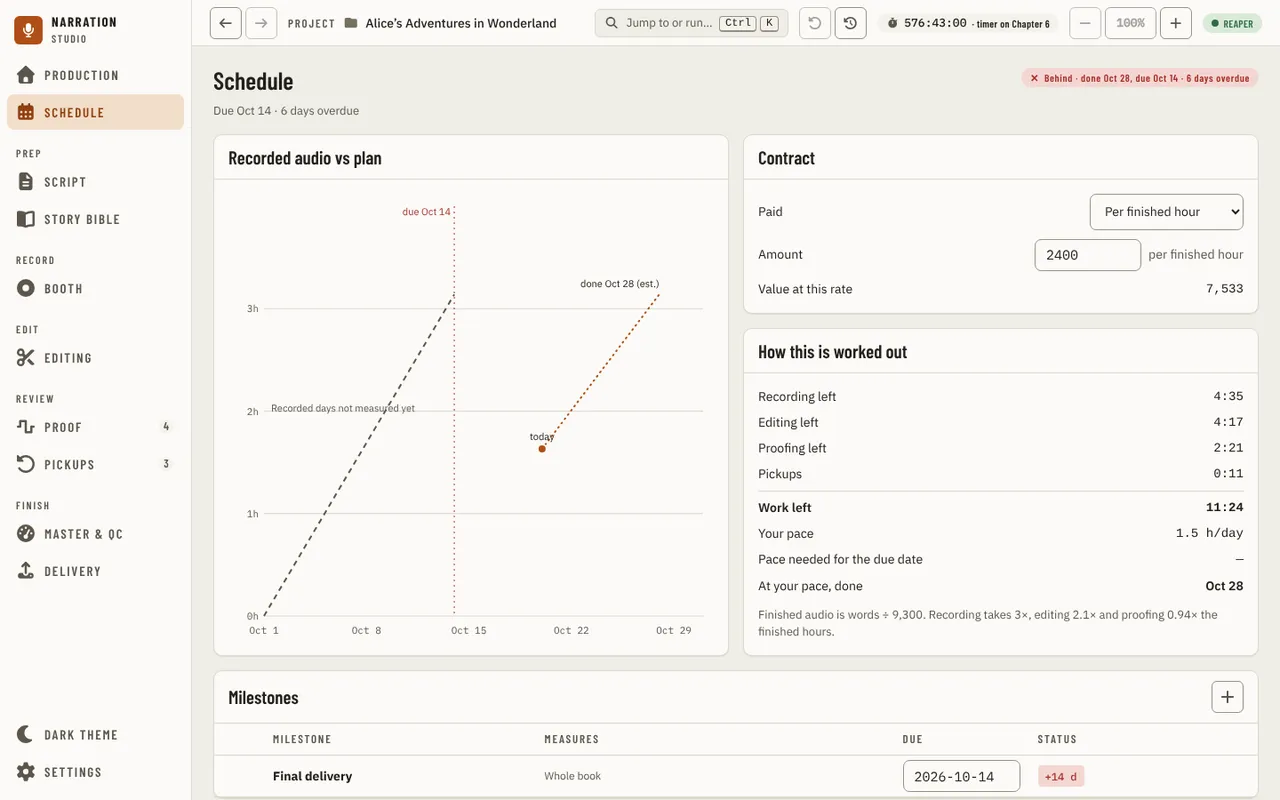
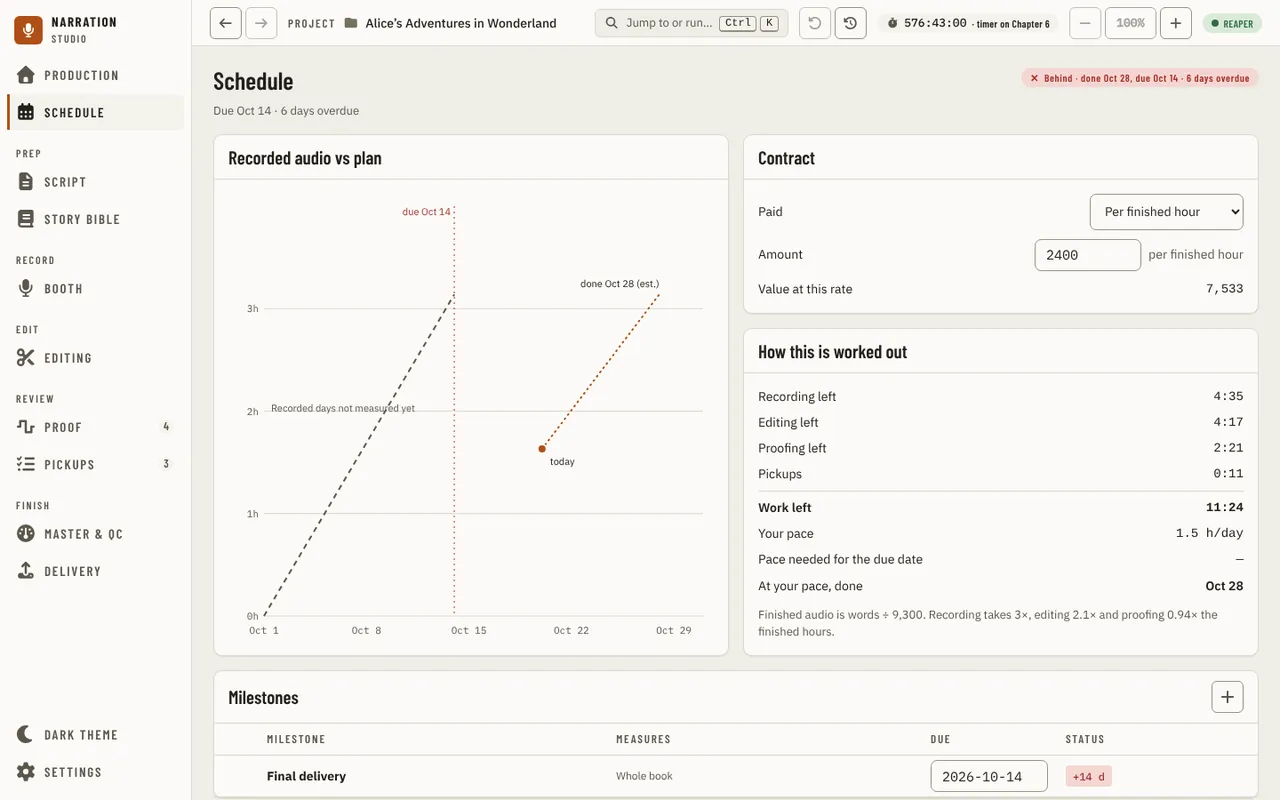
fix(ui): widen Schedule's Milestone column, add a no-due-date status, clear the today label (#1896)

diff --git a/apps/ui/src/components/schedule/MilestoneTable.tsx b/apps/ui/src/components/schedule/MilestoneTable.tsx
@@ -13,15 +13,18 @@ import { milestoneStatus, type MilestoneStatus, type ScheduleChapter } from './p
 const STATUS_TONE: Record<MilestoneStatus['kind'], StatusTone> = { done: 'success', ok: 'success', risk: 'warning', late: 'danger', none: 'neutral' };
 
 /** A status as a small cell: the value is short ("+3 d", a date, a check, a dash) and the sentence is its name and its tooltip. */
-function StatusCell({ status }: { status: MilestoneStatus }) {
+function StatusCell({ status, finalRow = false }: { status: MilestoneStatus; finalRow?: boolean }) {
   return (
     <TooltipTarget text={status.sentence}>
-      <span role="img" aria-label={status.sentence} data-status={status.kind}>
+      <span role="img" aria-label={status.sentence} data-status={status.kind} data-final-status={finalRow ? '' : undefined}>
         <StatusBadge shape="cell" tone={STATUS_TONE[status.kind]} label={status.short} />
       </span>
     </TooltipTarget>
   );
 }
+
+/** The Final delivery status while the book has no due date: a pace cannot be judged, and the cell says so instead of staying blank. */
+const NO_DUE: MilestoneStatus = { kind: 'none', sentence: 'No due date yet. Set one to see if you are on pace.', short: 'No date' };
 
 export type MilestoneTableProps = {
   milestones: readonly ProductionMilestone[];
@@ -47,68 +50,77 @@ export function MilestoneTable({ milestones, chapters, today, due, onToggleDone,
     .sort((a, b) => (a.m.dueDate < b.m.dueDate ? -1 : a.m.dueDate > b.m.dueDate ? 1 : a.index - b.index));
   const final = due ? milestoneStatus({ dueDate: due, measure: 'all' }, chapters, today) : null;
   return (
-    <Table label="Milestones" flush>
-      <TableHead>
-        <TableRow>
-          <TableHeader hiddenLabel="Done" />
-          <TableHeader>Milestone</TableHeader>
-          {/* The mock's column sizes: Measures keeps room for "All recorded" on one line, and Due is a date wide (152 px) whatever a milestone is called. */}
-          <TableHeader className="md:min-w-[9rem]">Measures</TableHeader>
-          <TableHeader className="w-[9.5rem]">Due</TableHeader>
-          <TableHeader>Status</TableHeader>
-          <TableHeader hiddenLabel="Actions" />
-        </TableRow>
-      </TableHead>
-      <TableBody>
-        {rows.map(({ m, index }) => (
-          <TableRow key={index}>
-            <TableCell>
-              <IconButton label={`Mark ${m.name} complete`} aria-pressed={Boolean(m.done)} data-done={index} onClick={() => onToggleDone(index)}>
-                <Icon name={m.done ? 'markedDone' : 'markDone'} />
-              </IconButton>
-            </TableCell>
-            <TableCell>
-              <b data-name={index} dir="auto" className="[overflow-wrap:anywhere]">
-                {m.name}
-              </b>
-            </TableCell>
-            <TableCell>
-              <span data-measure={index}>{measureText(m.measure)}</span>
-            </TableCell>
-            <TableCell numeric align="left">
-              {fmtIso(m.dueDate, today)}
-            </TableCell>
-            <TableCell>
-              <StatusCell status={milestoneStatus(m, chapters, today)} />
-            </TableCell>
-            <TableCell align="right">
-              <span className="inline-flex gap-0.5">
-                <TooltipTarget text={m.note ?? 'Add a note'}>
-                  <IconButton label={m.note ? `Edit the note on ${m.name}` : `Add a note to ${m.name}`} data-note={index} onClick={() => onEdit(index, 'note')}>
-                    <Icon name="addNote" />
-                  </IconButton>
-                </TooltipTarget>
-                <IconButton action="edit" label={`Edit ${m.name}`} data-edit={index} onClick={() => onEdit(index)} />
-                <IconButton action="remove" variant="danger" label={`Remove ${m.name}`} data-remove={index} onClick={() => onRemove(index)} />
-              </span>
-            </TableCell>
+    /* The table keeps its width and scrolls inside its own card, with the edge shadow that says there is more, instead of spilling out of the card on a narrow window. */
+    <div className="scroll-x-edges overflow-x-auto" tabIndex={0} role="group" aria-label="Milestones scroll area">
+      <Table label="Milestones" flush>
+        <TableHead>
+          <TableRow>
+            <TableHeader hiddenLabel="Done" />
+            <TableHeader className="min-w-[10rem]">Milestone</TableHeader>
+            {/* The mock's column sizes: Measures keeps room for "All recorded" on one line, and Due is a date wide (152 px) whatever a milestone is called. */}
+            <TableHeader className="md:min-w-[9rem]">Measures</TableHeader>
+            <TableHeader className="w-[9.5rem]">Due</TableHeader>
+            <TableHeader>Status</TableHeader>
+            <TableHeader hiddenLabel="Actions" />
           </TableRow>
-        ))}
-        <TableRow>
-          <TableCell />
-          <TableCell>
-            <b>Final delivery</b>
-          </TableCell>
-          <TableCell muted>Whole book</TableCell>
-          {/* The mock's 152 px column: a long milestone name must not take the room the date field needs. */}
-          <TableCell className="min-w-[9.5rem]">
-            <DueField value={due ?? ''} onCommit={onDueChange} />
-          </TableCell>
-          <TableCell>{final ? <StatusCell status={final} /> : null}</TableCell>
-          <TableCell />
-        </TableRow>
-      </TableBody>
-    </Table>
+        </TableHead>
+        <TableBody>
+          {rows.map(({ m, index }) => (
+            <TableRow key={index}>
+              <TableCell>
+                <IconButton label={`Mark ${m.name} complete`} aria-pressed={Boolean(m.done)} data-done={index} onClick={() => onToggleDone(index)}>
+                  <Icon name={m.done ? 'markedDone' : 'markDone'} />
+                </IconButton>
+              </TableCell>
+              <TableCell>
+                <b data-name={index} dir="auto" className="[overflow-wrap:anywhere]">
+                  {m.name}
+                </b>
+              </TableCell>
+              <TableCell>
+                <span data-measure={index}>{measureText(m.measure)}</span>
+              </TableCell>
+              <TableCell numeric align="left">
+                {fmtIso(m.dueDate, today)}
+              </TableCell>
+              <TableCell>
+                <StatusCell status={milestoneStatus(m, chapters, today)} />
+              </TableCell>
+              <TableCell align="right">
+                <span className="inline-flex gap-0.5">
+                  <TooltipTarget text={m.note ?? 'Add a note'}>
+                    <IconButton
+                      label={m.note ? `Edit the note on ${m.name}` : `Add a note to ${m.name}`}
+                      data-note={index}
+                      onClick={() => onEdit(index, 'note')}
+                    >
+                      <Icon name="addNote" />
+                    </IconButton>
+                  </TooltipTarget>
+                  <IconButton action="edit" label={`Edit ${m.name}`} data-edit={index} onClick={() => onEdit(index)} />
+                  <IconButton action="remove" variant="danger" label={`Remove ${m.name}`} data-remove={index} onClick={() => onRemove(index)} />
+                </span>
+              </TableCell>
+            </TableRow>
+          ))}
+          <TableRow>
+            <TableCell />
+            <TableCell>
+              <b>Final delivery</b>
+            </TableCell>
+            <TableCell muted>Whole book</TableCell>
+            {/* The mock's 152 px column: a long milestone name must not take the room the date field needs. */}
+            <TableCell className="min-w-[9.5rem]">
+              <DueField value={due ?? ''} onCommit={onDueChange} />
+            </TableCell>
+            <TableCell>
+              <StatusCell status={final ?? NO_DUE} finalRow />
+            </TableCell>
+            <TableCell />
+          </TableRow>
+        </TableBody>
+      </Table>
+    </div>
   );
 }
 

diff --git a/apps/ui/src/components/production/overview/ProgressChart.tsx b/apps/ui/src/components/production/overview/ProgressChart.tsx
@@ -30,10 +30,24 @@ type Props = {
   fill?: boolean;
   /** The panel's title: Production says "Recorded vs plan", the Schedule page "Recorded audio vs plan" (the mock). */
   title?: string;
+  /** Put the "today" label on the side of the dot away from the plan and projection lines (the Schedule page); off, it is centred above the dot as Production draws it. */
+  clearTodayLabel?: boolean;
 };
 
 /** "Recorded vs plan": the plan dashed, the recorded days solid, the projection dotted, with the due line, today and the estimated finish. */
-export function ProgressChart({ k, wph, start, today, due, recordedHours, series, height: minHeight = 200, fill = false, title = 'Recorded vs plan' }: Props) {
+export function ProgressChart({
+  k,
+  wph,
+  start,
+  today,
+  due,
+  recordedHours,
+  series,
+  height: minHeight = 200,
+  fill = false,
+  title = 'Recorded vs plan',
+  clearTodayLabel = false,
+}: Props) {
   const box = useRef<HTMLDivElement>(null);
   const [width, setWidth] = useState(520);
   const [boxHeight, setBoxHeight] = useState(minHeight);
@@ -66,6 +80,13 @@ export function ProgressChart({ k, wph, start, today, due, recordedHours, series
   const pxPerDay = (width - PAD.left - PAD.right) / span;
   const step = Math.max(7, Math.ceil(TICK_GAP / pxPerDay / 7) * 7);
   for (let d = 0; d <= span; d += step) weeks.push(d);
+  const planDays = due ? diffDays(due, start) : 0;
+  const aheadOfPlan = planDays > 0 && y(recordedHours) < y((finishedHours * nowDay) / planDays);
+  const todayBelow = !aheadOfPlan || x(today) < PAD.left + 40;
+  /* A due line close to the right of the dot would run through a label put on that side, so the label goes to the left of the dot instead. */
+  const dueGap = due ? x(due) - x(today) : Infinity;
+  const todayLeft = !todayBelow || (dueGap > -6 && dueGap < 46 && x(today) >= PAD.left + 40);
+  const todayY = Math.min(y(recordedHours) + (todayBelow ? 18 : -14), height - PAD.bottom - 6);
   const rows = Array.from({ length: yMax + 1 }, (_, v) => v).slice(0, 4);
   const summary = `Plan starts ${fmtD(start)}${due ? `, due ${fmtD(due)}` : ', no due date'}. Today is ${fmtD(today)}, ${recordedHours.toFixed(1)} of ${finishedHours.toFixed(1)} finished hours recorded. Estimated finish ${fmtD(k.finish)}.`;
 
@@ -141,9 +162,16 @@ export function ProgressChart({ k, wph, start, today, due, recordedHours, series
             data-line="projection"
           />
           <circle cx={x(today)} cy={y(recordedHours)} r="5" fill="var(--accent)" stroke="var(--surface)" strokeWidth="2" data-marker="today" />
-          <text x={x(today)} y={y(recordedHours) - 10} textAnchor="middle" fontSize="11" fill="var(--text)">
-            today
-          </text>
+          {/* Beside the dot, on the side the plan line is not: above and left when the recording is ahead of the plan (the plan passes below), below and right otherwise. The projection runs up and right from the dot, so the right side is only taken below it. */}
+          {clearTodayLabel ? (
+            <text x={todayLeft ? x(today) - 7 : x(today) + 9} y={todayY} textAnchor={todayLeft ? 'end' : 'start'} fontSize="11" fill="var(--text)">
+              today
+            </text>
+          ) : (
+            <text x={x(today)} y={y(recordedHours) - 10} textAnchor="middle" fontSize="11" fill="var(--text)">
+              today
+            </text>
+          )}
           <text
             x={x(k.finish)}
             y={y(finishedHours) - 8}

diff --git a/apps/ui/src/components/production/overview/overview.test.tsx b/apps/ui/src/components/production/overview/overview.test.tsx
@@ -152,9 +152,20 @@ describe('WeekCard', () => {
 });
 
 describe('ProgressChart', () => {
-  const chart = (chapters = MID_BOOK, log = undefined as Parameters<typeof overviewFor>[2]) => {
+  const chart = (chapters = MID_BOOK, log = undefined as Parameters<typeof overviewFor>[2], clearTodayLabel = false) => {
     const o = overviewFor(chapters, undefined, log);
-    return view(<ProgressChart k={o.k} wph={9300} start={o.start} today={STORY_TODAY} due={o.kpi.due} recordedHours={o.recordedHours} series={o.series} />);
+    return view(
+      <ProgressChart
+        k={o.k}
+        wph={9300}
+        start={o.start}
+        today={STORY_TODAY}
+        due={o.kpi.due}
+        recordedHours={o.recordedHours}
+        series={o.series}
+        clearTodayLabel={clearTodayLabel}
+      />,
+    );
   };
 
   it('chart-plan-actual-projection', () => {
@@ -164,6 +175,39 @@ describe('ProgressChart', () => {
     expect(screen.getByText(/^done .* \(est\.\)$/)).toBeTruthy();
     const svg = screen.getByRole('img', { name: 'Recorded audio versus plan' });
     expect(document.getElementById(svg.getAttribute('aria-describedby') ?? '')?.textContent).toMatch(/starts .*due .*Today is .*Estimated finish/);
+  });
+
+  it('chart-today-label-clears-the-estimate-line: never centred over the dot, where the projection runs up and right from it', () => {
+    const { container } = chart(MID_BOOK, undefined, true);
+    const dot = container.querySelector('[data-marker="today"]') as SVGCircleElement;
+    const label = screen.getByText('today');
+    const [x, y, cx, cy] = [label.getAttribute('x'), label.getAttribute('y'), dot.getAttribute('cx'), dot.getAttribute('cy')].map(Number);
+    // Left of the dot and above it (recording ahead of the plan), or right of it and below (behind it, or no room on the left).
+    if (label.getAttribute('text-anchor') === 'end') expect([x < cx, y < cy]).toEqual([true, true]);
+    else expect([label.getAttribute('text-anchor'), x > cx, y > cy]).toEqual(['start', true, true]);
+  });
+
+  it('chart-today-label-leaves-the-dot-when-the-due-line-is-close: a due date a day away puts the label left of the dot', () => {
+    const o = overviewFor(MID_BOOK, undefined, undefined);
+    const dayAfter = new Date(STORY_TODAY.getTime() + 24 * 3600 * 1000);
+    view(
+      <ProgressChart
+        k={o.k}
+        wph={9300}
+        start={new Date(STORY_TODAY.getTime() - 20 * 24 * 3600 * 1000)}
+        today={STORY_TODAY}
+        due={dayAfter}
+        recordedHours={0.1}
+        series={o.series}
+        clearTodayLabel
+      />,
+    );
+    expect(screen.getByText('today').getAttribute('text-anchor')).toBe('end');
+  });
+
+  it('chart keeps the label centred above the dot unless asked, as Production draws it', () => {
+    chart();
+    expect(screen.getByText('today').getAttribute('text-anchor')).toBe('middle');
   });
 
   it('chart without a take log has no actual line and says why', () => {

diff --git a/apps/ui/src/components/schedule/SchedulePage.scale.test.tsx b/apps/ui/src/components/schedule/SchedulePage.scale.test.tsx
@@ -20,6 +20,20 @@ describe('how many', () => {
     expect(document.querySelectorAll('[data-name]')).toHaveLength(0);
   });
 
+  it('keeps the Milestone column readable beside a 200-character name', async () => {
+    await mountSchedule({ seed: { milestones: [{ name: 'x'.repeat(200), dueDate: '2026-10-25' }] } });
+    await screen.findByText('Final delivery');
+    expect(screen.getByRole('columnheader', { name: 'Milestone' }).className).toContain('min-w-[10rem]');
+  });
+
+  it('scrolls the table inside its own card, with a keyboard stop and the edge cue', async () => {
+    await mountSchedule({ seed: { milestones: [{ name: 'Draft', dueDate: '2026-10-25' }] } });
+    const area = await screen.findByRole('group', { name: 'Milestones scroll area' });
+    expect(area.className).toContain('scroll-x-edges');
+    expect(area.getAttribute('tabindex')).toBe('0');
+    expect(within(area).getByRole('table', { name: 'Milestones' })).toBeTruthy();
+  });
+
   it('draws five hundred milestones read from a hand-edited plan, in a few seconds (the host saves at most a hundred; a plan edited by hand can hold more)', async () => {
     const started = Date.now();
     await mountSchedule({ seed: { milestones: many(500) } });

diff --git a/apps/ui/src/components/schedule/SchedulePage.dates.test.tsx b/apps/ui/src/components/schedule/SchedulePage.dates.test.tsx
@@ -46,6 +46,18 @@ describe('what the header and the verdict say about the days', () => {
     expect(screen.getByText('Near').closest('tr')?.textContent).toMatch(/Nov 1(?!,)/);
   });
 
+  it('says so in the Final delivery status when no due date is set, and gives it a status once one is', async () => {
+    await mountSchedule({ seed: { deadline: null } });
+    await dueField();
+    const status = () => document.querySelector('[data-final-status]');
+    expect(status()?.textContent).toBe('No date');
+    expect(status()?.getAttribute('aria-label')).toMatch(/No due date yet/);
+    cleanup();
+    await mountSchedule({ seed: { deadline: '2026-11-30' } });
+    await dueField();
+    expect(status()?.textContent).not.toBe('No date');
+  });
+
   it('draws a chart without a plan line when the due date is before the plan starts', async () => {
     await mountSchedule({ seed: { deadline: '2026-09-20' } });
     await dueField();

diff --git a/apps/ui/src/panelCopies.test.ts b/apps/ui/src/panelCopies.test.ts
@@ -58,6 +58,8 @@ const CEILING: Record<Copy, Record<string, number>> = {
     'src/components/booth/page/BoothNextPage.tsx': 1,
     // The Script page's title is visually hidden too: the mock draws none, the reader is the page.
     'src/components/script/page/ScriptPage.tsx': 1,
+    // The Script page's loading skeleton keeps the same visually hidden title, so a screen reader hears the page while it loads.
+    'src/components/script/page/layout/ScriptSkeleton.tsx': 1,
   },
 };
 

diff --git a/apps/ui/src/components/schedule/SchedulePage.tsx b/apps/ui/src/components/schedule/SchedulePage.tsx
@@ -214,6 +214,7 @@ export function SchedulePage({ journal, today, hasManuscript = true, onImport }:
       <div className="grid items-stretch gap-4 md:grid-cols-2">
         <ProgressChart
           title="Recorded audio vs plan"
+          clearTodayLabel
           height={280}
           fill
           k={k}

diff --git a/docs/guides/using-the-app/schedule.md b/docs/guides/using-the-app/schedule.md
@@ -30,7 +30,8 @@ the finished hours, editing 2.1× and proofing 0.94×, a pickup takes 0.06 hours
 pace, done** is today plus the work left divided by that pace.
 
 The chart, **Recorded audio vs plan**, draws the plan as a dashed line to the due date, the recorded days as a solid line when
-the app can read them (otherwise it says why it cannot), today, and the estimated finish as a dotted line.
+the app can read them (otherwise it says why it cannot), today (its label sits beside the dot, on the side away from the plan, estimate and due lines), and the
+estimated finish as a dotted line.
 
 ## Contract
 
@@ -42,12 +43,12 @@ refused with a message and the box goes back to the stored amount. A refusal's m
 
 ## Milestones
 
-The table lists your milestones by date, with the **Final delivery** row, the book's due date, at the end. Each row has:
+The table lists your milestones by date (the Milestone column keeps a readable width, so a long name wraps in it; in a narrow window the table scrolls sideways inside its card, with a shadow on the edge that has more to see, and Tab reaches it), with the **Final delivery** row, the book's due date, at the end. Each row has:
 
 - a **done** toggle. A done milestone reads **Done** and is never estimated.
 - a name, what it **measures** (a custom milestone measures nothing), and its date.
 - a status cell: **Late by 3 d**, **At risk** or **On track** with the estimated date, or **Not estimated** for a custom one.
-  Hover or focus it for the full sentence.
+  Hover or focus it for the full sentence. **Final delivery** reads **No date** until a due date is set.
 - a note button (hover it to read the note; with no note it offers to add one), **Edit** and **Remove**. Removing offers Undo.
 
 ![Schedule - the Add milestone dialog: name, due date, what it measures, a note and Done](../../images/ui/schedule-milestone-dialog.webp)
